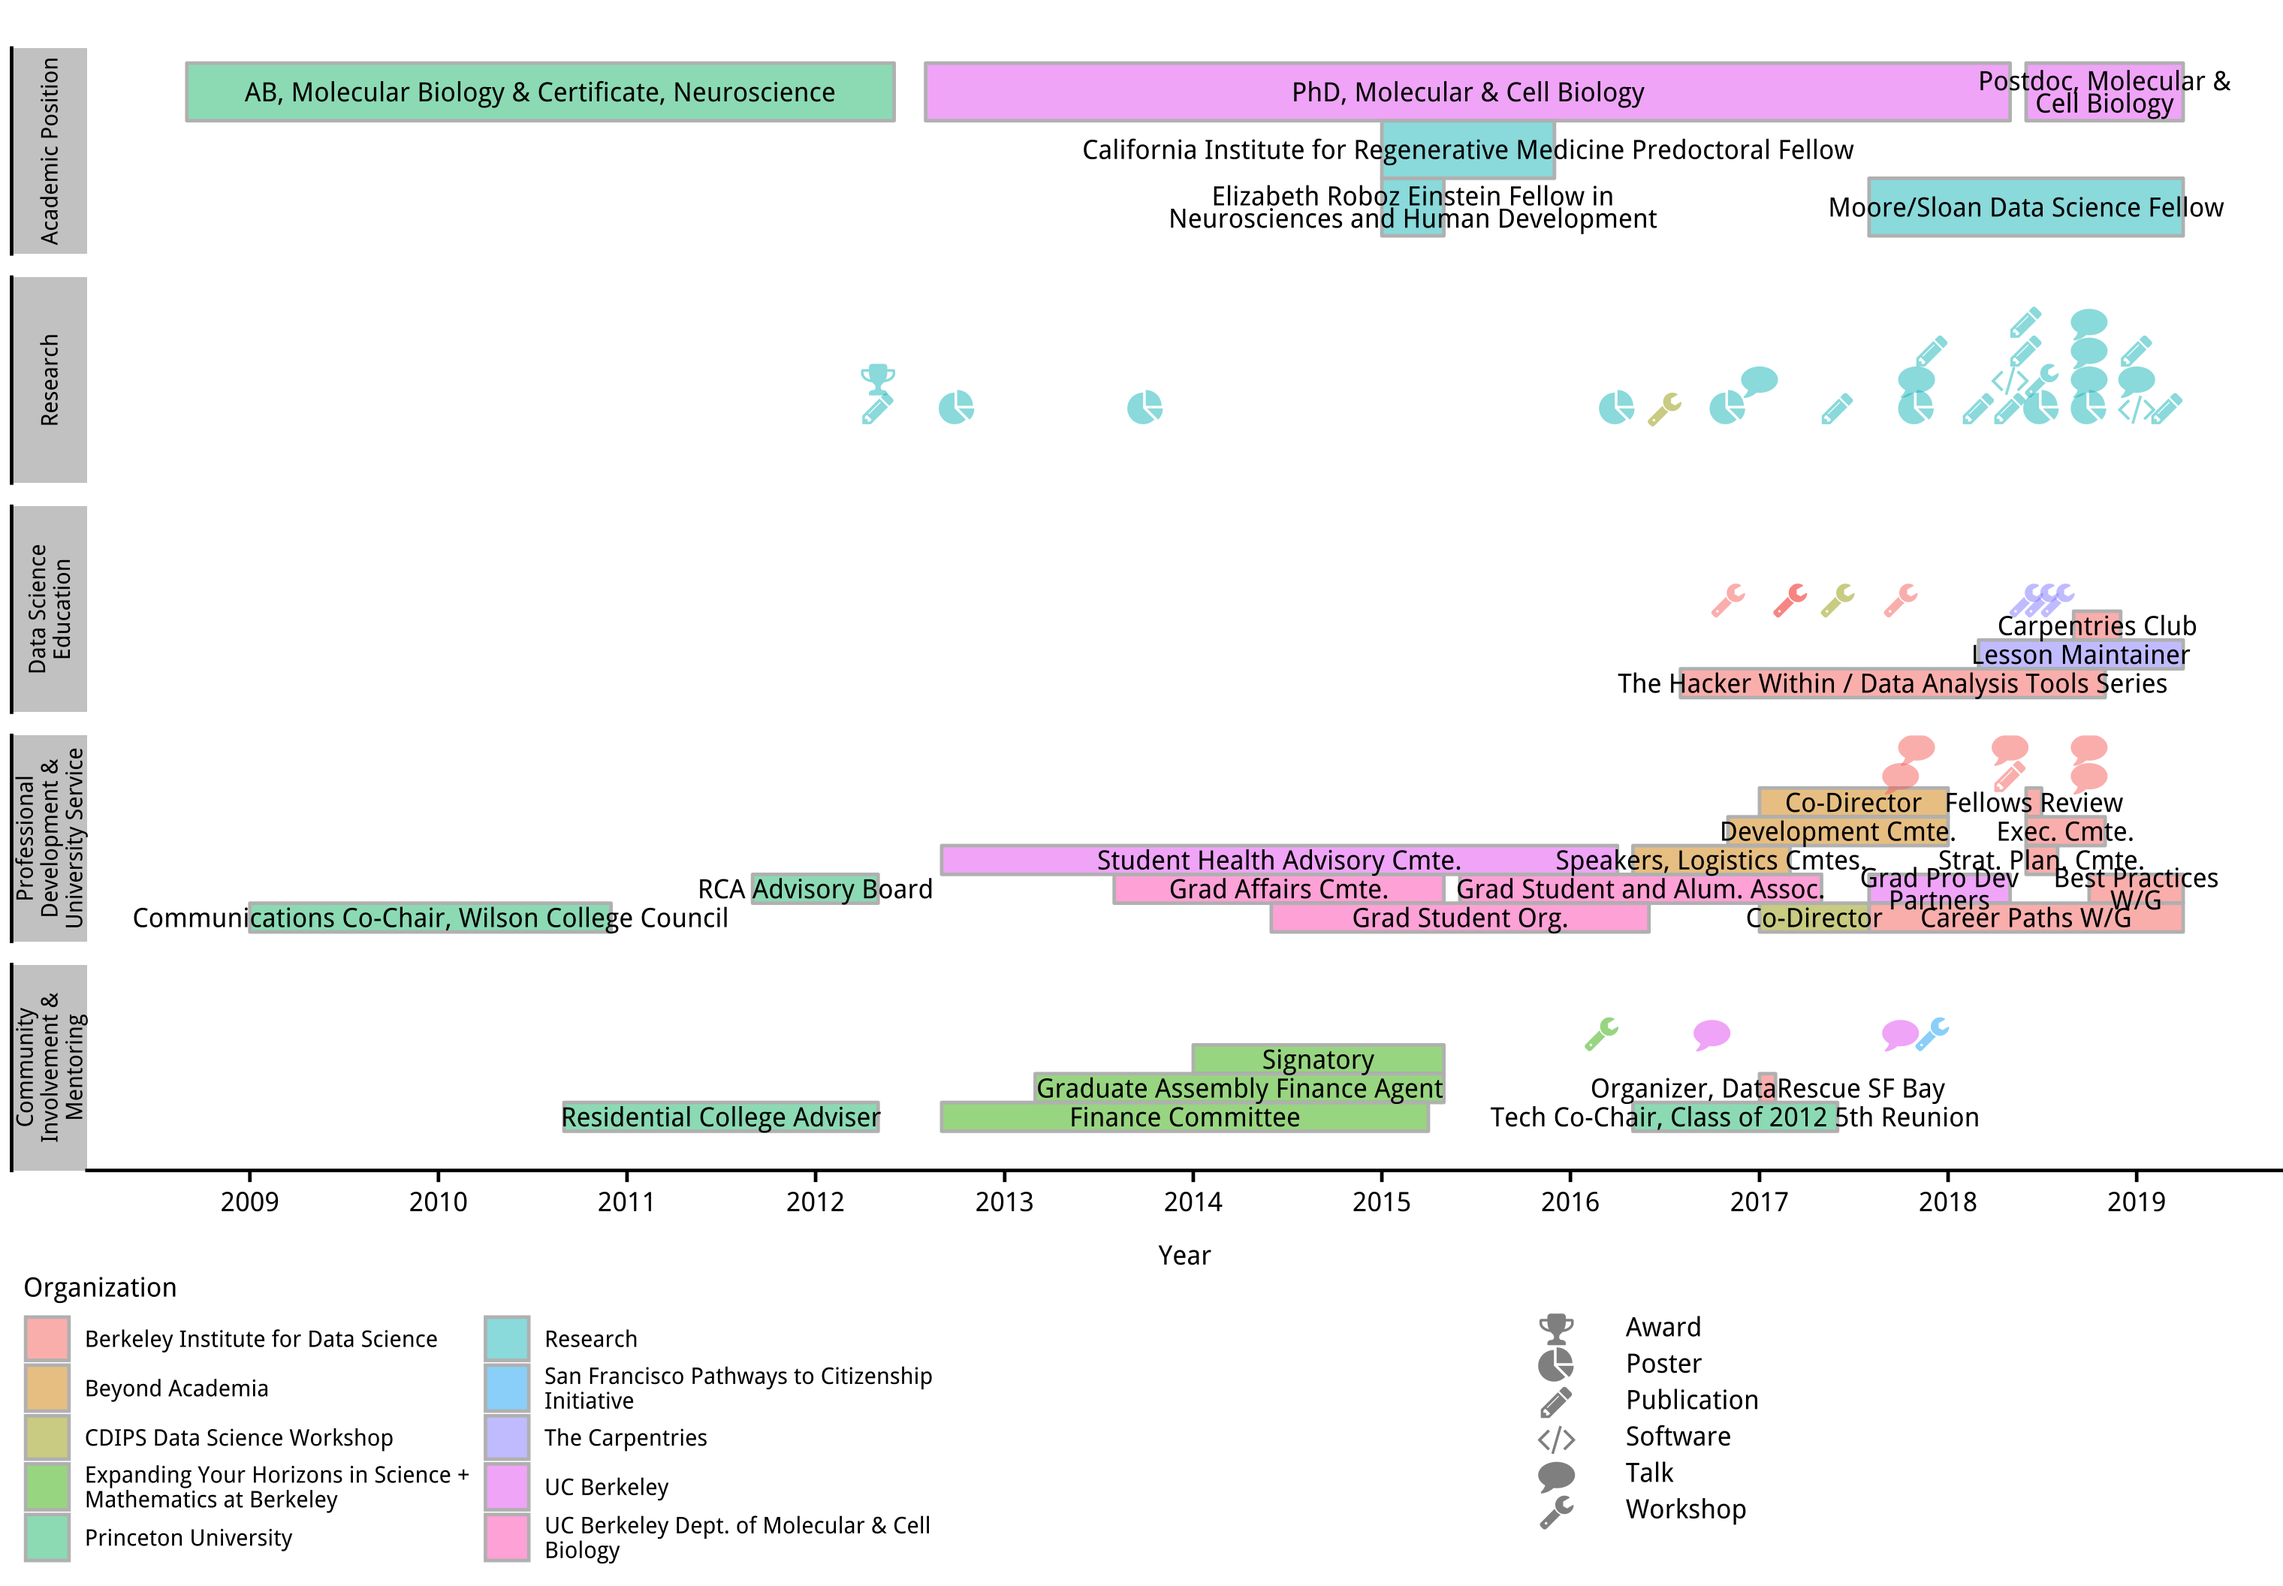
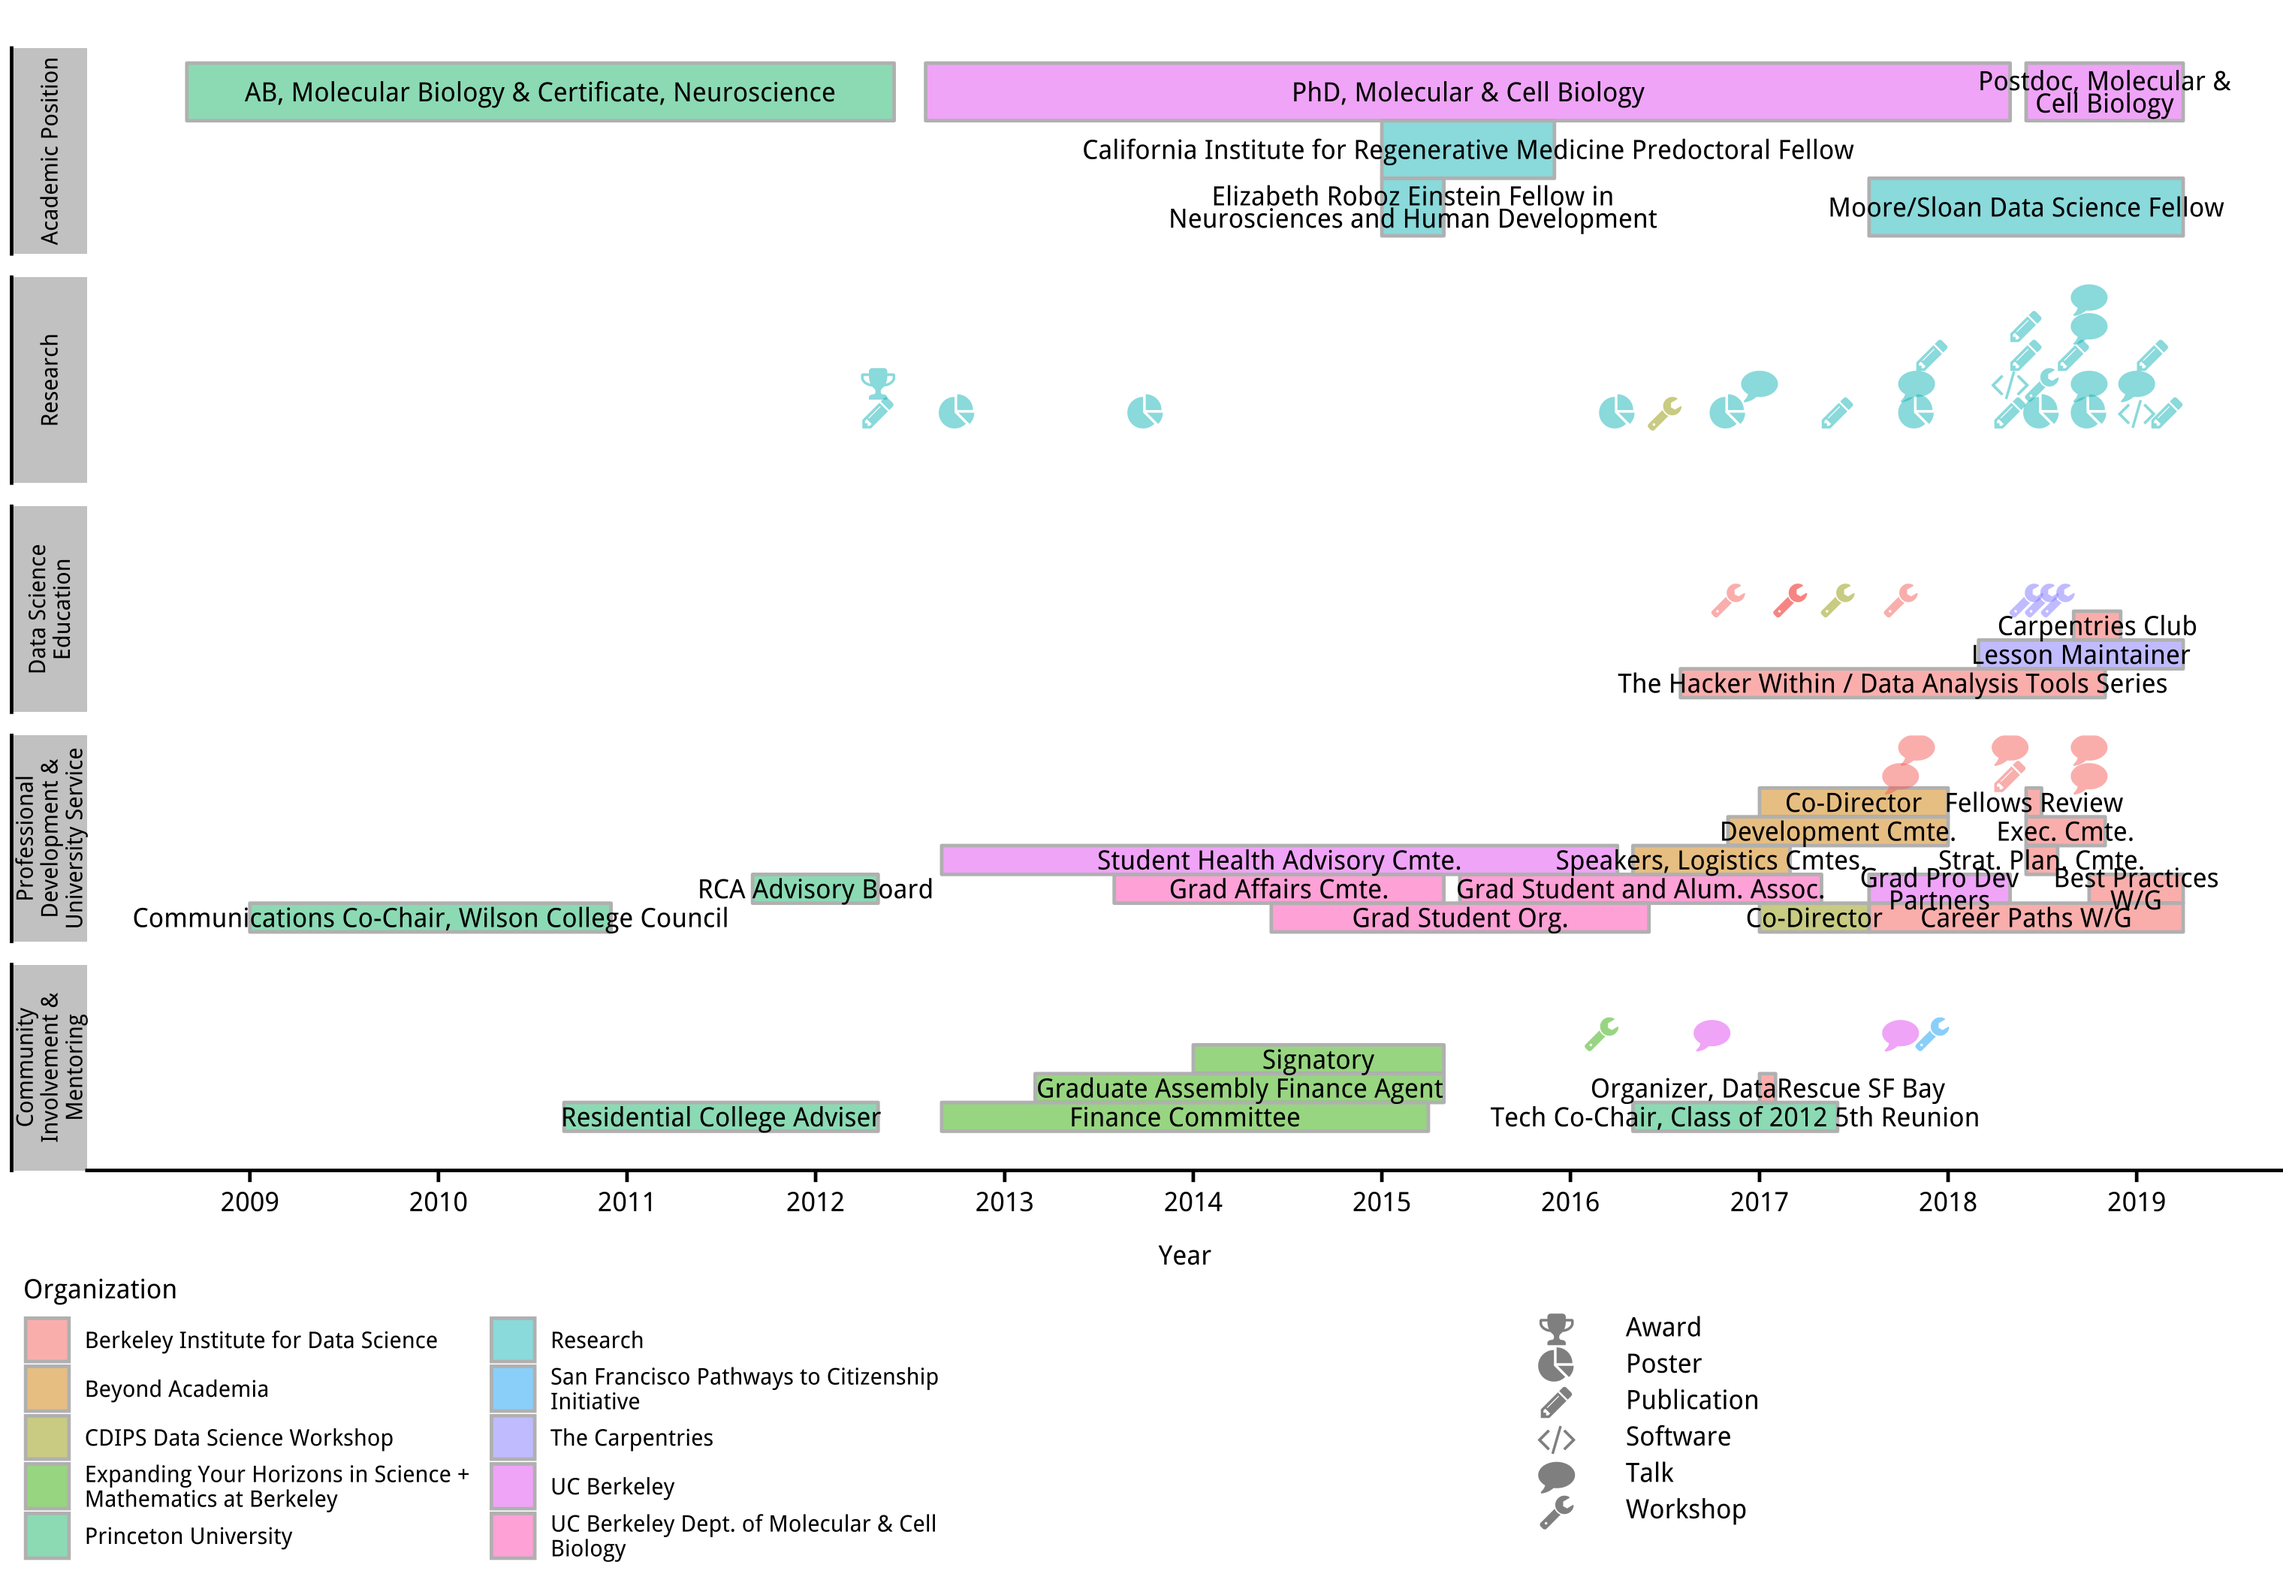
finish April 2019 update

diff --git a/_publications/2019-02-01-diversityinclusion.md b/_publications/2019-02-01-diversityinclusion.md
@@ -1,0 +1,13 @@
+---
+title: "Best Practices for Fostering Diversity and Inclusion in Data Science: Report from the BIDS Best Practices in Data Science Series"
+collection: publications
+permalink: /publications/2019-02-01-diversityinclusion
+excerpt: 'We discuss concrete actions that we can take to foster diverse and inclusive workplaces in fields around data science.'
+date: 2019-02-01
+venue: SocArXiv
+paperurl: osf.io/preprints/socarxiv/8gsjz/
+citation: 'R. Stuart Geiger, Orianna DeMasi, Aaron Culich, Andreas Zoglauer, <b>Diya Das</b>, Fernando Hoces de la Guardia, Kellie Ottoboni, Marsha Fenner, Nelle Varoquaux, Rebecca Barter, Richard Barnes, Sara Stoudt, Stacey Dorton and Stéfan van der Walt. (2019). Best Practices for Fostering Diversity and Inclusion in Data Science: Report from the BIDS Best Practices in Data Science Series. <i>SocArXiv</i>.'
+---
+
+## Abstract
+What actions can we take to foster diverse and inclusive workplaces in the broad fields around data science? This paper reports from a discussion in which researchers from many different disciplines and departments raised questions and shared their experiences with various aspects around diversity, inclusion, and equity. The issues we discuss include fostering inclusive interpersonal and small group dynamics, rules and codes of conduct, increasing diversity in less-representative groups and disciplines, organizing events for diversity and inclusion, and long-term efforts to champion change.

diff --git a/_publications/2019-03-05-turnover.md b/_publications/2019-03-05-turnover.md
@@ -1,0 +1,13 @@
+---
+title: "Best Practices for Managing Turnover in Data Science Groups, Teams, and Labs"
+collection: publications
+permalink: /publications/2018-03-05-turnover
+excerpt: 'We discuss the challenges of personnel turnover and some potential practices for helping manage it, particularly for computational- and data-intensive research teams and projects.'
+date: 2019-03-05
+venue: SocArXiv
+paperurl: osf.io/preprints/socarxiv/xe823
+citation: 'Dan Sholler*, <b>Diya Das*</b>, Fernando Hoces de la Guardia*, Chris Hoffman, Francois Lanusse, Nelle Varoquaux, Rolando Garcia, R. Stuart Geiger, Shana McDevitt, Scott Peterson and Sara Stoudt. (2019). Best Practices for Managing Turnover in Data Science Groups, Teams, and Labs. <i>SocArXiv</i>.'
+---
+
+## Abstract
+Turnover is a fact of life for any project, and academic research teams can face particularly high levels of people who come and go through the duration of a project. In this article, we discuss the challenges of turnover and some potential practices for helping manage it, particularly for computational- and data-intensive research teams and projects. The topics we discuss include establishing and implementing data management plans, file and format standardization, workflow and process documentation, clear team roles, and check-in and check-out procedures.
